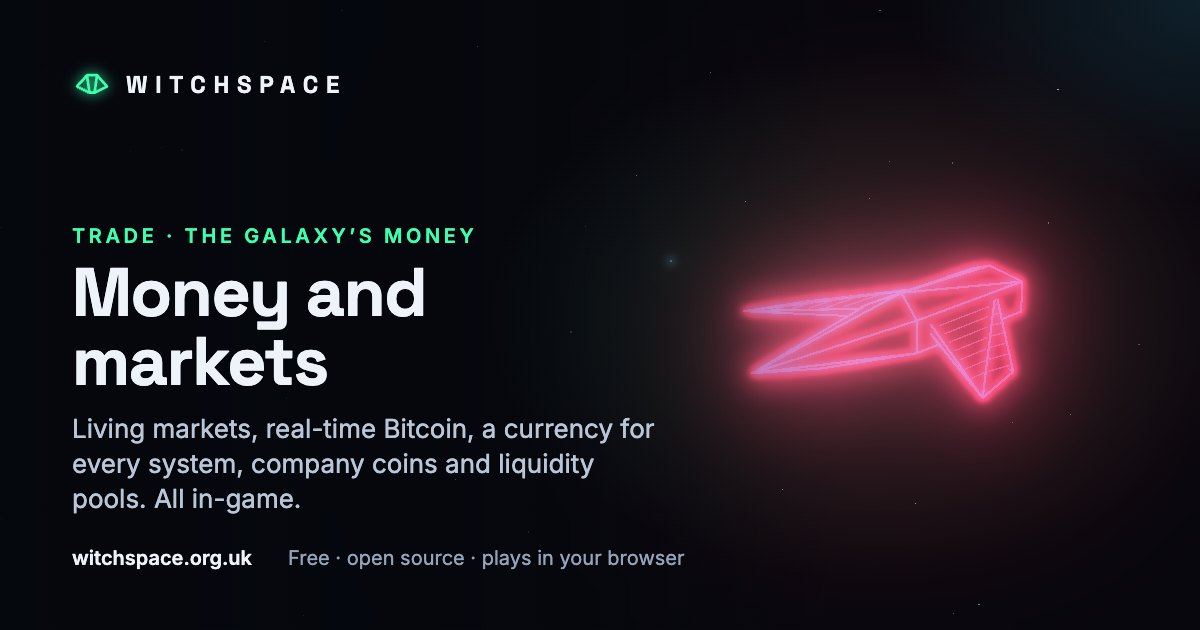
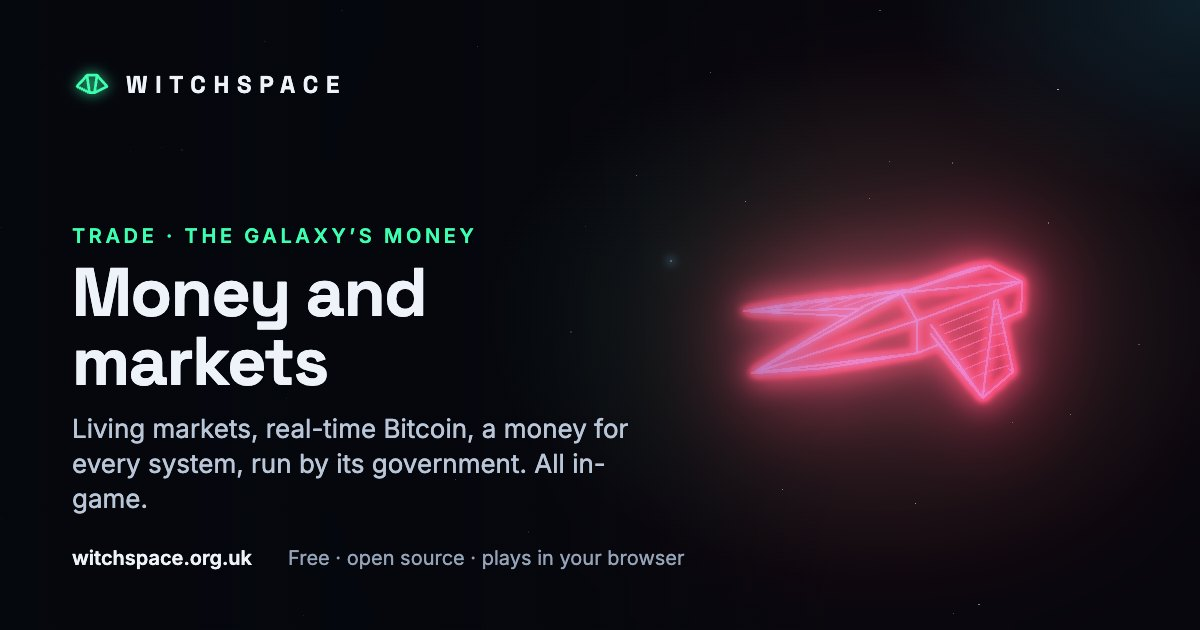
Site: the three monies, simpler clip sharing, station approach card, YouTube thumbnail and Drive title (#396)
* The press page's YouTube thumbnail allowed by the image policy; the Drive's search title for both its jobs (Marketing)

* The three monies on the site (Mark): company stablecoins and liquidity gone from the money and press pages; why a money moves, one wallet, and change it anywhere for 2% (press words: Marketing)

* Share cards for the money page and system currencies, with the three monies

* A share card for the new station approach design page

* The fight rebuilt from outside comes out of the press line and llms.txt: the replay is on hold for marketing (Marketing)

* Sharing a clip as the simpler sheet does it: send the video itself, or make a link with a page of its own (Marketing)

---------

Changed region(s): [[0.2158, 0.6635, 0.555, 0.754], [0.0617, 0.754, 0.2467, 0.8143]]

diff --git a/site/pages/economy.html b/site/pages/economy.html
@@ -1,11 +1,12 @@
-<!-- {"path": "/economy/", "title": "Money and markets · Witchspace", "description": "The galaxy's money: living markets, limit orders, real-time Bitcoin, a currency for every system with its own policy, company stablecoins, liquidity pools, and a ledger the server checks. All in-game: no real money goes in or comes out.", "scripts": ["/src/site/economy.ts"], "bodyClass": "economy-page"} -->
+<!-- {"path": "/economy/", "title": "Money and markets · Witchspace", "description": "The galaxy's money: living markets, limit orders, real-time Bitcoin, a currency for every system run by its government, why each one is moving, and a ledger the server checks. All in-game: no real money goes in or comes out.", "scripts": ["/src/site/economy.ts"], "bodyClass": "economy-page"} -->
 <section class="section money-hero">
   <p class="kicker">Trade · the galaxy’s money</p>
   <h1>Money and markets</h1>
-  <p class="lede">Witchspace began as Elite’s buy-low, sell-high. It has grown into a working financial system: markets that move when you trade, orders that fill while you’re away, the real Bitcoin price, a currency for nearly every star system, each run its own way, and coins and pools you can put your credits into. Every credit is in a ledger the server checks.</p>
+  <p class="lede">Witchspace began as Elite’s buy-low, sell-high. It has grown into a working financial system: markets that move when you trade, orders that fill while you’re away, the real Bitcoin price, and a money for nearly every star system, run the way its government runs everything else. Every credit is in a ledger the server checks.</p>
+  <p class="money-three">Three monies: the credit, backed by force; a world’s money, backed by work; and Bitcoin, backed by maths.</p>
   <div class="money-tickers">
     <div><span>Bitcoin, live</span><b id="btc-price">about 80,000 Cr</b><small>1 Cr is 1 US dollar, so it’s the real number</small></div>
-    <div><span>A company stablecoin</span><b id="co-value">1.000 Cr</b><small>Backed by Bitcoin at 150%</small></div>
+    <div><span>A corporate world’s money</span><b>1.000 Cr</b><small>Held at one credit, whatever Bitcoin does</small></div>
     <div><span>Currencies in galaxy one</span><b>224</b><small>Of 256 systems: all but the anarchies</small></div>
   </div>
   <p class="money-note">All of it is in-game: credits are earned by playing, never bought, and nothing can be cashed out. <a href="/about/#no-pay-to-win">No pay-to-win</a>.</p>
@@ -14,15 +15,14 @@
 <section class="section">
   <div class="section-head">
     <p class="kicker">At a glance</p>
-    <h2>Six ways to hold your wealth</h2>
+    <h2>Four ways to hold your wealth</h2>
+    <p class="lede">A new commander only needs credits, cargo and contracts. The rest is there when you want it: every world’s money moves with what that world makes and how its government runs it.</p>
   </div>
   <div class="money-grid">
     <div class="card"><h3>Credits</h3><p>The yardstick everything is priced in. Spent, fined, or put down as a deposit on a ship.</p></div>
     <div class="card"><h3>Cargo</h3><p>Bought at one station, sold at another. It sits in your hold, so you can lose it with the ship.</p></div>
     <div class="card"><h3>Bitcoin</h3><p>The real coin, at the real price. It takes no hold space, and nobody can take it from you: not pirates, not the police, not losing your ship.</p></div>
     <div class="card"><h3>System currencies</h3><p>A money for each system, run by its government. Some hold their value; some lose it by the week; one kind breaks.</p></div>
-    <div class="card"><h3>Company stablecoins</h3><p>Coins from the Big Four, worth a credit each and backed by Bitcoin, taken at any station.</p></div>
-    <div class="card"><h3>Liquidity</h3><p>Lend to a station’s currency pool and earn a share of its fees, with the risk that comes with it.</p></div>
   </div>
 </section>
 
@@ -67,28 +67,24 @@
   </div>
   <!-- economy:currencies -->
   <ul class="money-rules">
-    <li><strong>Crises leave scars.</strong> When a peg breaks or the presses run, a money recovers over a few days, but only partly. Buying the bottom is a bet, not a sure thing.</li>
+    <li><strong>Crises leave scars.</strong> When a peg breaks or the presses run, the money recovers, but only partly. Buying the bottom is a bet, not a sure thing.</li>
     <li><strong>Each station has a pool for its own money:</strong> a big swap moves the rate against you (a 0.3% fee), and the rate drifts back to fair over about an hour.</li>
-    <li><strong>Stablecoins are your way out:</strong> reserve-backed and algorithmic money is taken at any station, at its rate, so when a currency fails you can still get to credits.</li>
+    <li><strong>Change it anywhere:</strong> any system’s money can be changed back to credits at any station, at its fair rate less 2%, so when a currency fails you can still get out.</li>
+    <li><strong>One wallet:</strong> credits, Bitcoin and every system’s money you hold, each with its worth in credits. None of it takes hold space, and all of it survives the ship.</li>
     <li><strong>Communist states</strong> let each visitor change only 2,000 Cr a visit.</li>
   </ul>
 </section>
 
 <section class="section">
   <div class="section-head">
-    <p class="kicker">Company coins and pools</p>
-    <h2>Put your credits to work</h2>
+    <p class="kicker">The Money tab</p>
+    <h2>Why it’s moving</h2>
   </div>
-  <div class="money-grid two">
-    <div class="card">
-      <h3>Company stablecoins</h3>
-      <p>Hexon Holdings, Vorg Industries, Carriers’ Mutual and Wexley-Yorozu each issue a coin. Mint one for a credit (less 0.3%), redeem it at any station. Each is backed by Bitcoin locked up at 150% of the coins’ value, like DAI, so it holds at one credit unless Bitcoin falls by a third. Below that, a coin is worth what its collateral is.</p>
-    </div>
-    <div class="card">
-      <h3>Providing liquidity</h3>
-      <p>Put credits and the same value of a system’s money into its station’s pool, and earn a share of the fees: 8% plus 30% ÷ √population a year, so smaller stations pay more (about 20% to 42% in galaxy one). If the rate moves you come out holding more of whichever side fell: impermanent loss, shown honestly in your Money tab. Withdraw any time.</p>
-    </div>
-  </div>
+  <ul class="money-rules">
+    <li><strong>One money at a time:</strong> its government in a line, the rate at this station, the week’s move and the last eight days.</li>
+    <li><strong>The reasons, in plain words.</strong> A strike or a blockade cuts what a world makes, so its money buys less; a boom strengthens it. Each reason shows ▲ stronger, ▼ weaker or = holding.</li>
+    <li><strong>One box to change it,</strong> credits to the local money or back, with the 0.3% fee in a line.</li>
+  </ul>
 </section>
 
 <section class="section">

diff --git a/site/pages/press.html b/site/pages/press.html
@@ -58,7 +58,7 @@
       <div class="copy-head"><h3>Longer</h3><button type="button" class="button small" data-copy-from="#copy-long">Copy</button></div>
       <div id="copy-long">
         <p>In 1984 Ian Bell and David Braben fitted eight galaxies, wireframe space flight and an open-ended trading game into about 22 KB of a BBC Micro, and invented a genre. Witchspace is a fan's tribute: an open-source game that keeps the soul of the original (the crisp vector ships, the galaxy you remember, that heart-in-mouth docking, to the Blue Danube) and builds the parts a 1984 computer never could around it.</p>
-        <p>It runs in any browser, on a phone as well as a desktop. The markets are a real exchange, moved by traders, supply chains and world events, with news that travels at the speed of ships, so the commander who hears first can profit, without ever leaving the dock. Every system has its own money, from pegged stablecoins to printing presses, and some of them fail. Pirates hunt in packs and grow wary of a commander who keeps winning; a Legend called the Falcon runs dark through the lawless systems. Break the law badly enough and the Co-operative Marshals tear their way in through a witchspace rift. Explorers survey worlds and the first to bring the data home goes on the chart, while Wexley-Yorozu's Titanoboa builds new stations stage by stage where everyone can see.</p>
+        <p>It runs in any browser, on a phone as well as a desktop. The markets are a real exchange, moved by traders, supply chains and world events, with news that travels at the speed of ships, so the commander who hears first can profit, without ever leaving the dock. Every system has its own money, run the way its government runs everything else, from a firm peg to a dictator's printing press, and when a world goes to war its money feels it. Pirates hunt in packs and grow wary of a commander who keeps winning; a Legend called the Falcon runs dark through the lawless systems. Break the law badly enough and the Co-operative Marshals tear their way in through a witchspace rift. Explorers survey worlds and the first to bring the data home goes on the chart, while Wexley-Yorozu's Titanoboa builds new stations stage by stage where everyone can see.</p>
         <p>Everything is designed in the open: the roadmap and every design document are public, and players can add ships, characters, stories and missions, most of it without writing code.</p>
       </div>
     </div>
@@ -75,7 +75,7 @@
       <li>Combat from Harmless to Elite: lasers on four mounts (pulse to military), gimbals, missiles and ECM, against pirates who hunt in packs and learn to be wary</li>
       <li>The Falcon, a Legend: a lone pirate running dark, unidentified until you're close enough to read her hull</li>
       <li>A real trading exchange, from the dock: candlestick charts with the news marked on them, an order book and limit orders</li>
-      <li><a href="/economy/">Money that works like money</a>: a currency for every system, each with its government's policy (a pegged stablecoin, a printing press, a fixed supply), pools to swap them at every station, company stablecoins, and Bitcoin priced from the real market. All in game credits: nothing can be bought with real money</li>
+      <li><a href="/economy/">Money that works like money</a>: every system has its own money, run by its government, with its rate, the week's move and why it's moving on one screen, and one wallet for it all, with Bitcoin priced from the real market. All in game credits: nothing can be bought with real money</li>
       <li>World events (famines, booms, strikes, wars) and news that travels at the speed of ships</li>
       <li>Four trading companies with contracts, standing and the files they keep on you</li>
       <li>The law: running dark, local records, surrender, insurance, and the Co-operative Marshals, who come through a witchspace rift</li>
@@ -83,7 +83,7 @@
       <li>Building: Wexley-Yorozu's Titanoboa builds new stations by moons, stage by stage, over days</li>
       <li>Ships you own: spec a Fer-de-lance in <a href="/ships/fer-de-lance/build/">the configurator</a> (colour, glow, lasers, luxuries), pay a deposit and collect her from the yard, with an owner's manual. Two numbered editions, offered by invitation to contributors: the <a href="/ships/fer-de-lance/witch-fire/">Witch-fire</a>, 100 built, and the <a href="/ships/fer-de-lance/dark/">Dark</a>, 50 built. Anyone can name one in the configurator and share her.</li>
       <li>A 1984 mode, one keypress away: white lines on black, as the original drew them</li>
-      <li>Every flight is a story. Share yours in one tap: the flight recorder keeps the moments that matter (a fight, a first on the chart, a trade run worth boasting of), and a shared clip gets a page and a card of its own, playing the video you chose, with the fight rebuilt from outside a tap away. Press P, or tap the camera on a phone, for a clean photo</li>
+      <li>Every flight is a story. The flight recorder keeps the moments that matter (a fight, a first on the chart, a trade run worth boasting of). Send the video itself, or make a link: it gets a page and a card of its own, playing the video you chose. Press P, or tap the camera on a phone, for a clean photo</li>
       <li>Made for phones as much as desktops: touch flight, a guarded missile trigger, and a view button you hold and slide to glance left, right or behind</li>
       <li>Modern rules (insurance, flight assists) or Classic rules (one life, as in 1984)</li>
     </ul>

diff --git a/tools/build-site.ts b/tools/build-site.ts
@@ -80,7 +80,7 @@ const PAGE_CARDS: Record<string, NonNullable<Page['card']>> = {
   '/connect/': { ship: 'titanoboa', kicker: 'Build connector', title: 'Connect your AI assistant', sub: 'Let your assistant hand in ships and modules as you. Nothing goes public until it is accepted.' },
   '/ship-editor/': { ship: 'falcon', kicker: 'Build', title: 'Ship editor', sub: 'Shape a ship from points, see it glow, and hand it in. No code, no GitHub.' },
   '/submit/': { ship: 'titanoboa', kicker: 'Build', title: 'Hand in a design', sub: 'A ship or a Titanoboa module, checked as you go. No GitHub needed.' },
-  '/economy/': { ship: 'falcon', kicker: 'Trade · the galaxy’s money', title: 'Money and markets', sub: 'Living markets, real-time Bitcoin, a currency for every system, company coins and liquidity pools. All in-game.' },
+  '/economy/': { ship: 'falcon', kicker: 'Trade · the galaxy’s money', title: 'Money and markets', sub: 'Living markets, real-time Bitcoin, a money for every system, run by its government. All in-game.' },
   '/shared-space/': { ship: 'viper', kicker: 'Multiplayer · in beta', title: 'Shared space', sub: 'The other ship on your scanner might be a person. Fly with other commanders, live, in your browser.' },
   '/privacy/': { ship: 'coriolis', kicker: 'Privacy', sub: 'What Witchspace keeps about you, why, and how to delete it.' },
   '/galaxy/': { ship: 'coriolis', kicker: 'The first of eight galaxies', title: 'The galaxy, right now', sub: '256 star systems, worked out from one seed and one clock, the same for every commander.' },

diff --git a/src/site/economy.ts b/src/site/economy.ts
@@ -1,10 +1,9 @@
-import { BTC_REF, companyValue, fairRate } from '../economy/currencies';
+import { BTC_REF, fairRate } from '../economy/currencies';
 import { systemAt } from '../galaxy/generate';
 import { API } from '../net/account';
 
-// The money page (/economy/): the live Bitcoin price, what a company coin is
-// worth at that price, and today's rates for the example currencies, which the
-// build wrote at its own time (tools/economy.ts).
+// The money page (/economy/): the live Bitcoin price, and today's rates for the
+// example currencies, which the build wrote at its own time (tools/economy.ts).
 
 const fmt = (rate: number) => (rate < 10 ? rate.toFixed(3) : Math.round(rate).toLocaleString('en-GB'));
 
@@ -14,7 +13,6 @@ function show(btc: number) {
     const s = systemAt(Number(row.dataset.galaxy), Number(row.dataset.system));
     row.querySelector('[data-rate]')!.textContent = fmt(fairRate(s, now, btc));
   }
-  document.querySelector('#co-value')!.textContent = `${companyValue(btc).toFixed(3)} Cr`;
 }
 
 show(BTC_REF);

diff --git a/tools/docs.ts b/tools/docs.ts
@@ -77,7 +77,7 @@ const RECORDS: Record<string, string> = {
     'title: How the economy works',
     'status: guide',
     'pillar: trade',
-    'summary: The record of Witchspace\'s money as it is built, with the real numbers: the markets and limit orders, Bitcoin, every system\'s own currency, company stablecoins, liquidity pools, and how the server keeps every credit honest.',
+    'summary: The record of Witchspace\'s money as it is built, with the real numbers: the markets and limit orders, Bitcoin, every system\'s own currency and why it moves, and how the server keeps every credit honest.',
     'card: falcon',
   ].join('\n'),
 };

diff --git a/src/site/site.css b/src/site/site.css
@@ -909,6 +909,7 @@ button.button { cursor: pointer; }
 .money-tickers b { display: block; margin: 4px 0 2px; color: var(--accent); font: 700 clamp(22px, 3vw, 30px) var(--display); font-variant-numeric: tabular-nums; }
 .money-tickers small { color: var(--muted); font-size: 13px; }
 .money-note { color: var(--muted); font-size: 14px; }
+.money-three { margin: 0; font: 600 clamp(17px, 2vw, 20px) var(--display); }
 .money-grid { display: grid; grid-template-columns: repeat(auto-fit, minmax(240px, 1fr)); gap: 14px; }
 .money-grid.two { grid-template-columns: repeat(auto-fit, minmax(300px, 1fr)); }
 .money-grid .card h3 { margin: 0 0 8px; }

diff --git a/site/pages/home.html b/site/pages/home.html
@@ -64,7 +64,7 @@
       <div class="flight-text">
         <h3>Latest flight</h3>
         <div class="big" id="now-clip-what">Every flight is a story</div>
-        <p class="muted" id="now-clip-line">Share yours in one tap, and it gets a page and a card of its own.</p>
+        <p class="muted" id="now-clip-line">Send the video itself, or make a link with a page and a card of its own.</p>
         <a class="card-cta" id="now-clip-cta" href="/play/">Fly, and share yours →</a>
       </div>
     </div>
